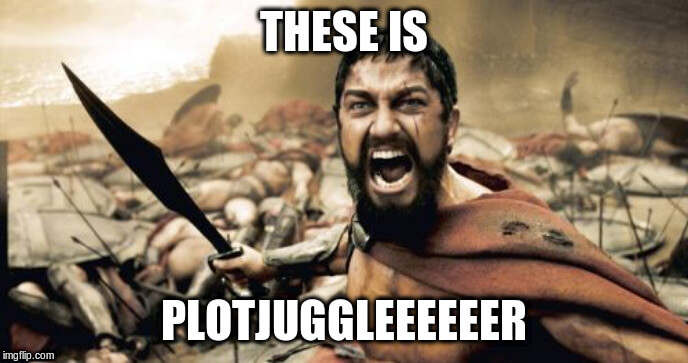
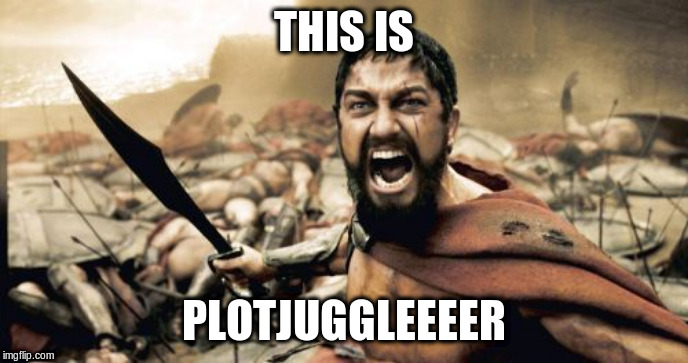
meme fixed

Changed region(s): [[0.2137, 0.7879, 0.5799, 0.9697], [0.3663, 0.0, 0.641, 0.1515], [0.702, 0.7879, 0.7936, 0.9394]]

diff --git a/plotter_gui/main.cpp b/plotter_gui/main.cpp
@@ -12,7 +12,7 @@ QPixmap getFunnySplashscreen(){
 
     qsrand(time(nullptr));
     int n = qrand() % 44;
-    if ( n >= 44 ){ n = 0; }
+    if ( n >= 41 ){ n = 0; }
     return QPixmap(QString("://resources/memes/meme_%1.jpg").arg(n, 2, 10, QChar('0')));
 }
 
@@ -100,7 +100,7 @@ int main(int argc, char *argv[])
         app.processEvents();
         splash.raise();
 
-        const auto deadline = QDateTime::currentDateTime().addMSecs( 3000 );
+        const auto deadline = QDateTime::currentDateTime().addMSecs( 3500 );
 
         MainWindow w( parser );
         while( QDateTime::currentDateTime() < deadline && !splash.isHidden() )
